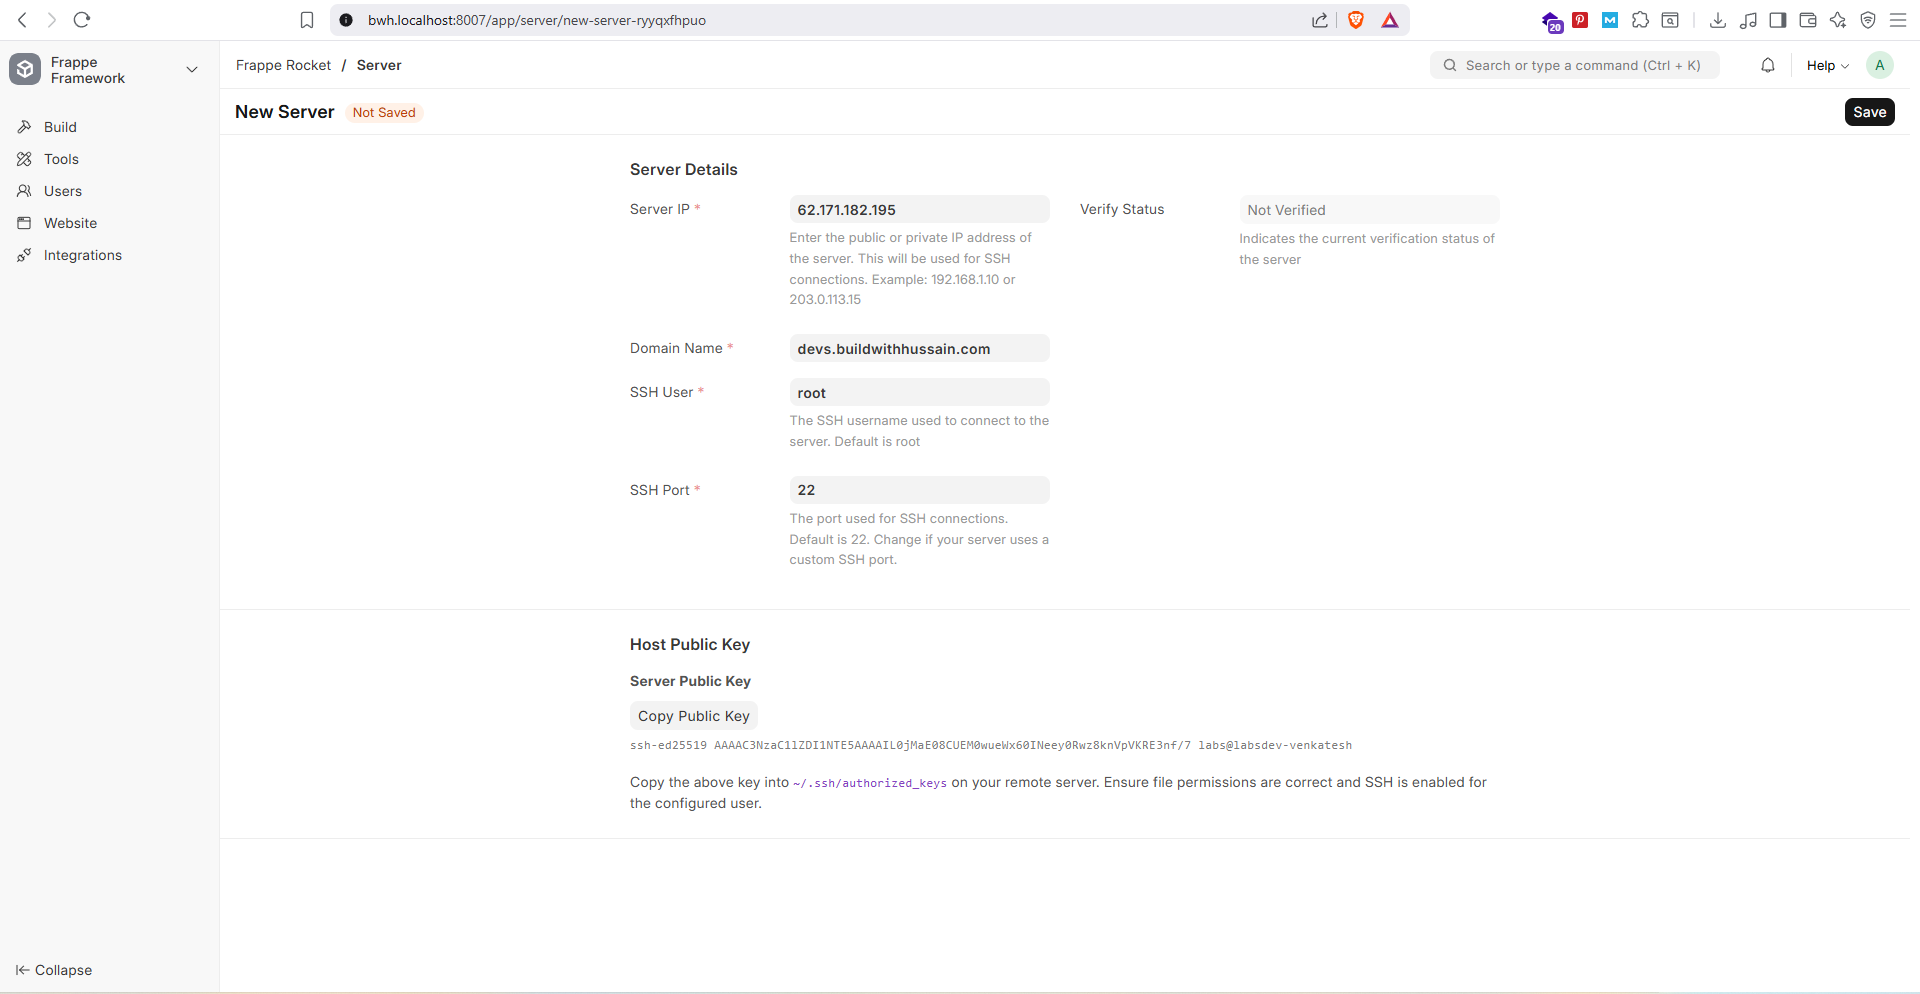
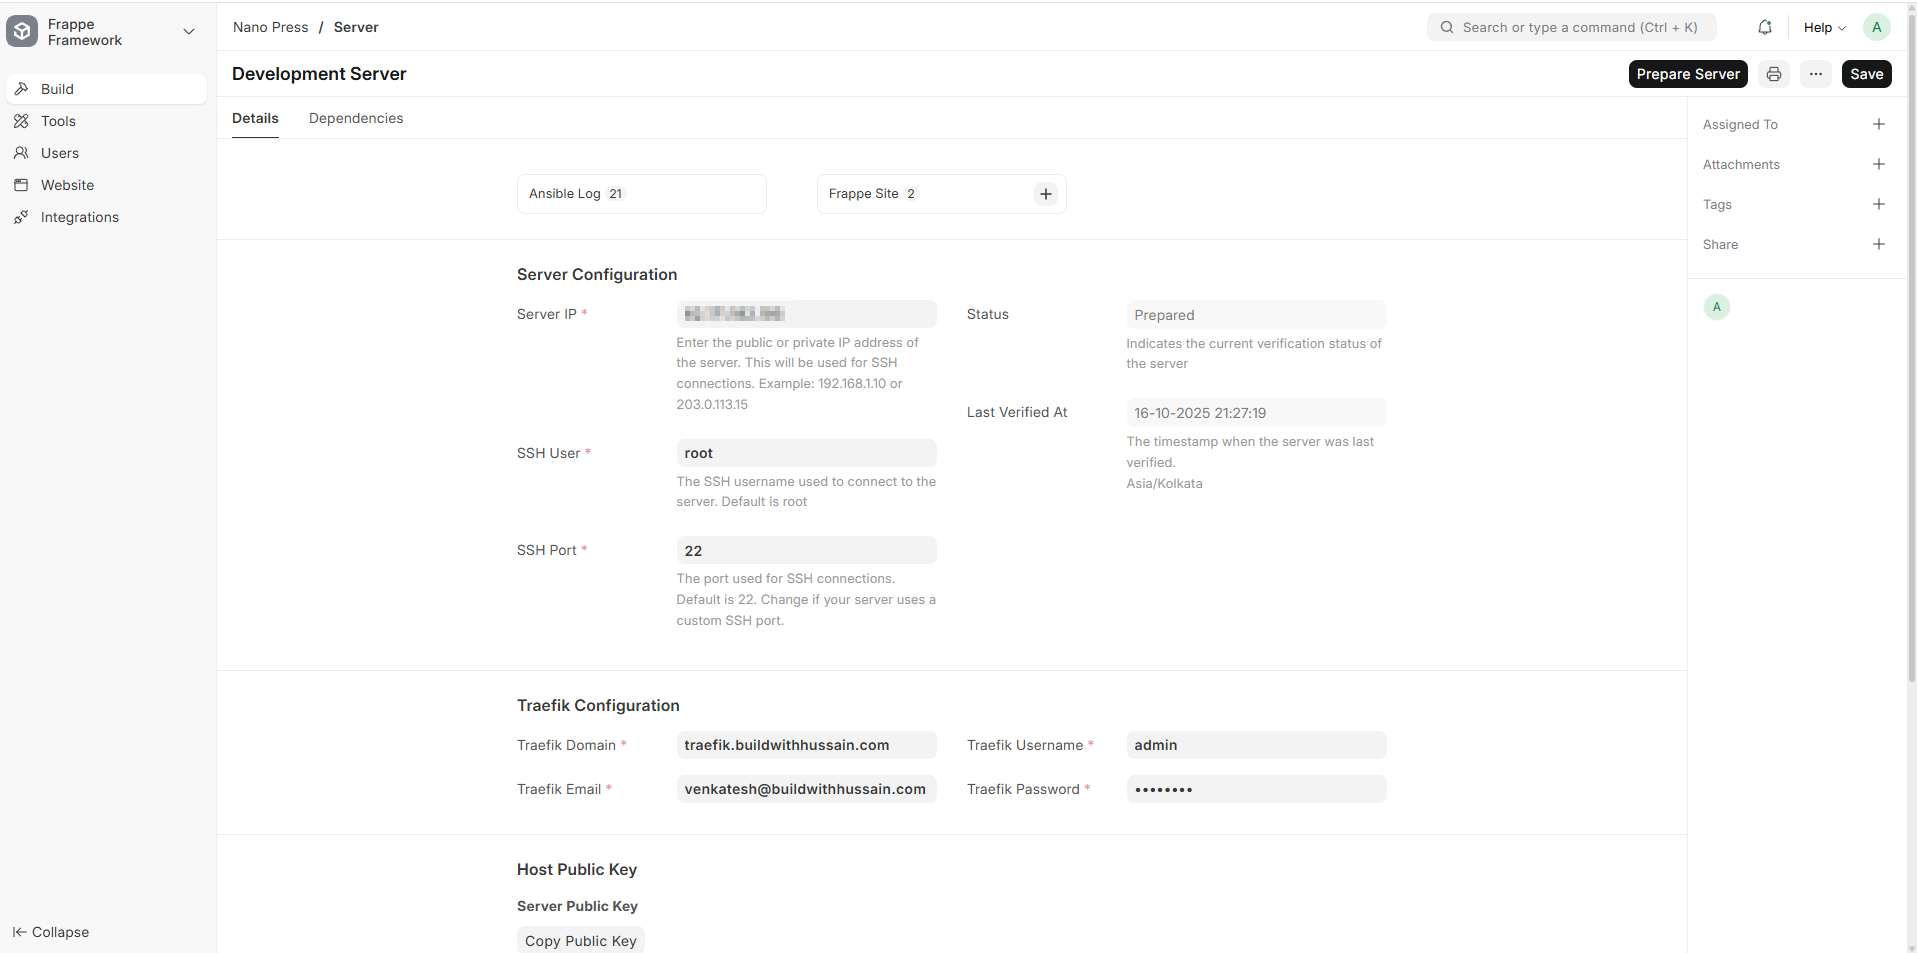
docs: Add video tutorials and screenshots to README
- Add 4 video tutorials for deployment workflow
- Add dashboard and email notification screenshots
- Simplify manual steps in favor of video guides

diff --git a/README.md b/README.md
@@ -6,6 +6,14 @@ Nano Press automates your Frappe/ERPNext deployment from zero to production. Con
 
 This guide will walk you through deploying a Frappe/ERPNext server using Nano Press, from server setup to production deployment.
 
+### Nano Press Dashboard
+
+The Nano Press application provides an intuitive dashboard to manage your Frappe/ERPNext deployments:
+
+![Nano Press Dashboard](nano_press/public/images/dashboard.png)
+
+*Note: Screenshot shows the main Nano Press interface with deployment workflow and management options.*
+
 ### Prerequisites
 
 Before starting, ensure you have:
@@ -37,77 +45,35 @@ First, ensure your server meets the minimum requirements:
 
 ![Server Management Dashboard](nano_press/public/images/server.png)
 
-#### 2.2 Configure Server Details
+#### Video Tutorial: Server Creation
 
-Fill in the server configuration:
+Watch this step-by-step video guide for adding and configuring a server:
 
-- **Domain Name**: Enter your server's domain or hostname (e.g., `mycompany.com` or `server1.example.com`)
-- **Server IP**: Enter the public IP address of your server
-- **SSH User**: Usually `root` (default)
-- **SSH Port**: Usually `22` (default)
+![Server Creation Tutorial](nano_press/public/images/addserver.gif)
 
-![Server Configuration Form](nano_press/public/images/verify_server.png)
+#### 2.2 Configure and Verify Server
 
-#### 2.3 Verify Server Connection
-
-1. Click **Save** to create the server record
-2. Click **Verify Server** to test the SSH connection
-3. **Important**: Copy the public key displayed in the verification log
-4. Add this public key to your server's authorized keys:
-
-```bash
-# SSH into your server
-ssh root@your-server-ip
-
-# Add the public key to authorized_keys
-echo "YOUR_PUBLIC_KEY_HERE" >> ~/.ssh/authorized_keys
-
-# Set proper permissions
-chmod 600 ~/.ssh/authorized_keys
-chmod 700 ~/.ssh
-```
-
-5. Wait for the verification process to complete
-
-![Server Verification](nano_press/public/images/server_verified.png)
-
-**Note**: The verification process will:
-- Test SSH connectivity
-- **Require the public key to be added to authorized_keys for successful verification**
+Follow the video tutorial above to configure server details and verify the connection.
 
 ### Step 3: Configure Apps (Optional)
 
 #### 3.1 Add Custom Apps
 
-If you want to install custom apps beyond ERPNext:
+#### Video Tutorial: Adding Private and Public Apps
 
-1. Go to **Apps** Doctype
-2. Click **New** to add a new app
-3. Configure the app details:
-   - **App Name**: Name of the app
-   - **Repository URL**: GitHub repository URL
-   - **Branch**: Branch to install from (e.g., `develop`, `main`)
-   - **Is Private**: Check if it's a private repository
-   - **PAT Token**: Personal Access Token for private repos
+Watch this step-by-step video guide for adding custom apps:
 
-![Apps Configuration](nano_press/public/images/apps.png)
+![Adding Apps Tutorial](nano_press/public/images/addapps.gif)
 
 ### Step 3.5: Build Custom Image (Optional)
 
-#### 3.5.1 Create Custom Image
+#### 3.5.1 Build Custom Image
 
-For faster deployments and better performance, you can build a custom Docker image with your apps pre-installed:
+#### Video Tutorial: Building Custom Apps
 
-1. Go to **Custom Image** Doctype
-2. Click **New** to create a new custom image
-3. Configure the image details:
-   - **Server**: Choose the server to which this image to be build on.
-   - **Verion**: Choose the Framwork version.
-   - **Image name**: Keep a valid image name to be used.
-   - **Apps to Include**: Select the apps you want pre-installed
-   - **Build Configuration**: Set build parameters
+Watch this step-by-step video guide for building custom images with pre-installed apps:
 
-![Custom Image Configuration](nano_press/public/images/build_image.png)
+![Building Custom Apps Tutorial](nano_press/public/images/imagebuild.gif)
 
 #### 3.5.2 Monitor Build Process
 
@@ -120,104 +86,24 @@ The build process may take up to 30 minutes depending on the number of apps sele
 
 ![Custom Image Built](nano_press/public/images/image_built.png)
 
-**Note**: Custom images significantly reduce deployment time for subsequent deployments with the same app configuration. The system will notify you when the build process is finished, so you don't need to continuously monitor the progress.
+**Note**: Custom images significantly reduce deployment time for subsequent deployments with the same app configuration. You will receive both system notifications and email notifications when the build process is finished, so you don't need to continuously monitor the progress.
+
+![Email Notification for Custom Image Build](nano_press/public/images/email.png)
 
 ### Step 4: Deploy Your Instance
 
-#### 4.1 Create Deployment
+#### 4.1 Create and Deploy Frappe Site
 
-1. Go to **Frappe Site** Doctype
-2. Click **New** to create a new deployment
-3. Select your verified server from the dropdown
-4. The server name will be automatically fetched from the server configuration
+#### Video Tutorial: Frappe Site Creation
 
-![Frappe Site Form](nano_press/public/images/ready_to_deploy.png)
+Watch this step-by-step video guide for creating and deploying a Frappe site:
 
-#### 4.2 Configure Deployment Settings
+![Frappe Site Creation Tutorial](nano_press/public/images/frappesite.gif)
 
-Fill in the deployment configuration:
+#### 4.2 Access Your Site
 
-**Basic Settings:**
-- **Site Name**: Choose a unique site name (e.g., `mycompany`)
-- **Admin Password**: Set the admin password (or leave blank for auto-generation)
-- **Docker Image**: By default, `frappe/erpnext:v15.76.0` will be used (contains only ERPNext)
+Once deployment is complete, you can access your Frappe/ERPNext instance:
 
-**Custom Image Configuration:**
-- **Is Custom**: Check this if you want to install additional apps
-- **Custom Image**: Select the custom image you built earlier
-- **Apps Section**: Will be automatically populated with all apps used to build the custom image
-
-**SSL Configuration (Optional):**
-- **Enable SSL**: Check to enable HTTPS
-- **Traefik Domain**: Your domain name (e.g., `erp.mycompany.com`) - **Mandatory if SSL is enabled**
-- **Traefik Email**: Email for Let's Encrypt certificates - **Mandatory if SSL is enabled**
-- **Traefik Password**: Password for Traefik dashboard
-
-![Deployment Configuration](nano_press/public/images/deploy_withoutssl.png)
-
-#### 4.3 Prepare for Deployment
-
-1. Review all settings
-2. Click **Prepare for Deployment**
-3. This process will:
-   - Install Docker and Docker Compose if they don't exist
-   - Install the Frappe Docker repository
-   - Override the `pwd.yml` file with your deployment details
-   - Set up the deployment environment
-
-#### 4.4 Deploy Your Server
-
-1. Once the status changes to "Ready to Deploy"
-2. Click **Deploy** to start the deployment process
-3. This will execute `docker compose up` on your server
-
-![Deployment Process](nano_press/public/images/deployed_custom.png)
-
-#### 4.5 Access Your Site
-
-1. Wait for the deployment to complete (5-10 minutes depending on apps)
-2. You'll see a **Visit Site** button appear
-3. Click **Visit Site** to access your Frappe/ERPNext instance
-
-**Important Notes:**
-- **For Production**: Configure your domain name to point to your server IP
-- **For Local Development**: Don't use SSL and map your IP to hostname in `/etc/hosts` file
-- **Access Details**: 
-  - **URL**: `http://your-server-ip:8000` (or `https://your-domain` if SSL enabled)
-  - **Username**: `Administrator`
-  - **Password**: The password you set during deployment
-
-### Step 5: Monitor Deployment
-
-#### 5.1 Track Progress
-
-The deployment process will:
-
-1. **Prepare Environment**: Install Docker, Docker Compose, and Frappe repository
-2. **Initialize**: Set up Docker containers and networks
-3. **Install Frappe**: Install Frappe framework
-4. **Install ERPNext**: Install ERPNext application
-5. **Install Custom Apps**: Install any additional apps (if using custom image)
-6. **Configure SSL**: Set up HTTPS if enabled
-7. **Finalize**: Complete setup and start services
-
-You can monitor progress in the **Deployment Log** section.
-
-![Deployment Log](nano_press/public/images/deployed_custom.png)
-
-#### 5.2 Deployment Status
-
-- **Not Deployed**: Initial state
-- **Ready to Deploy**: After "Prepare for Deployment" is complete
-- **Deploying**: During the deployment process
-- **Deployed**: Successfully completed
-- **Failed**: If deployment encounters errors
-
-#### 5.3 Access Your Instance
-
-Once deployment is complete and status shows "Deployed":
-
-- Click the **Visit Site** button to access your Frappe/ERPNext instance
 - **URL**: `http://your-server-ip:8000` (or `https://your-domain` if SSL enabled)
 - **Username**: `Administrator`
 - **Password**: The password you set during deployment
